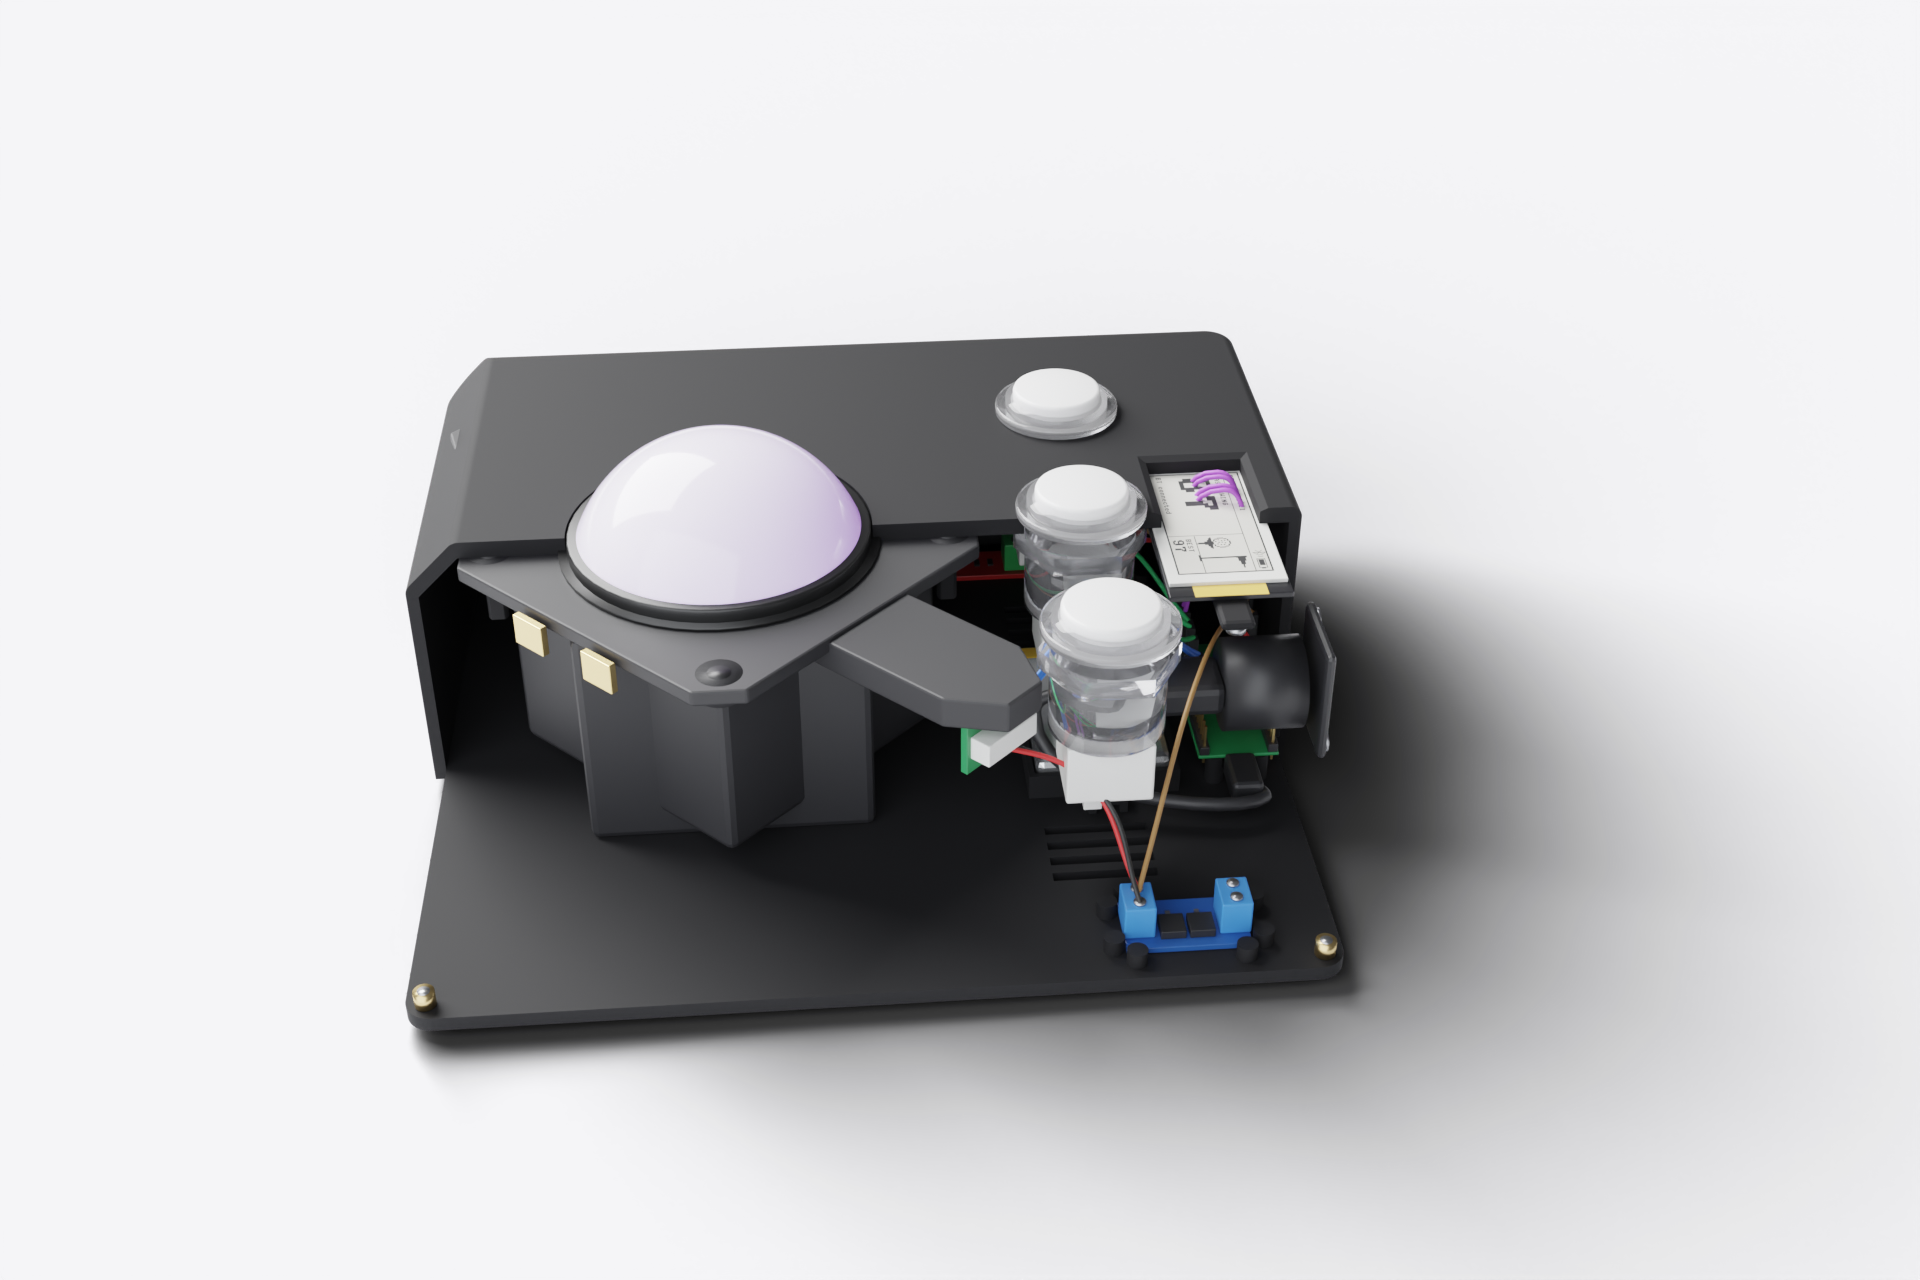
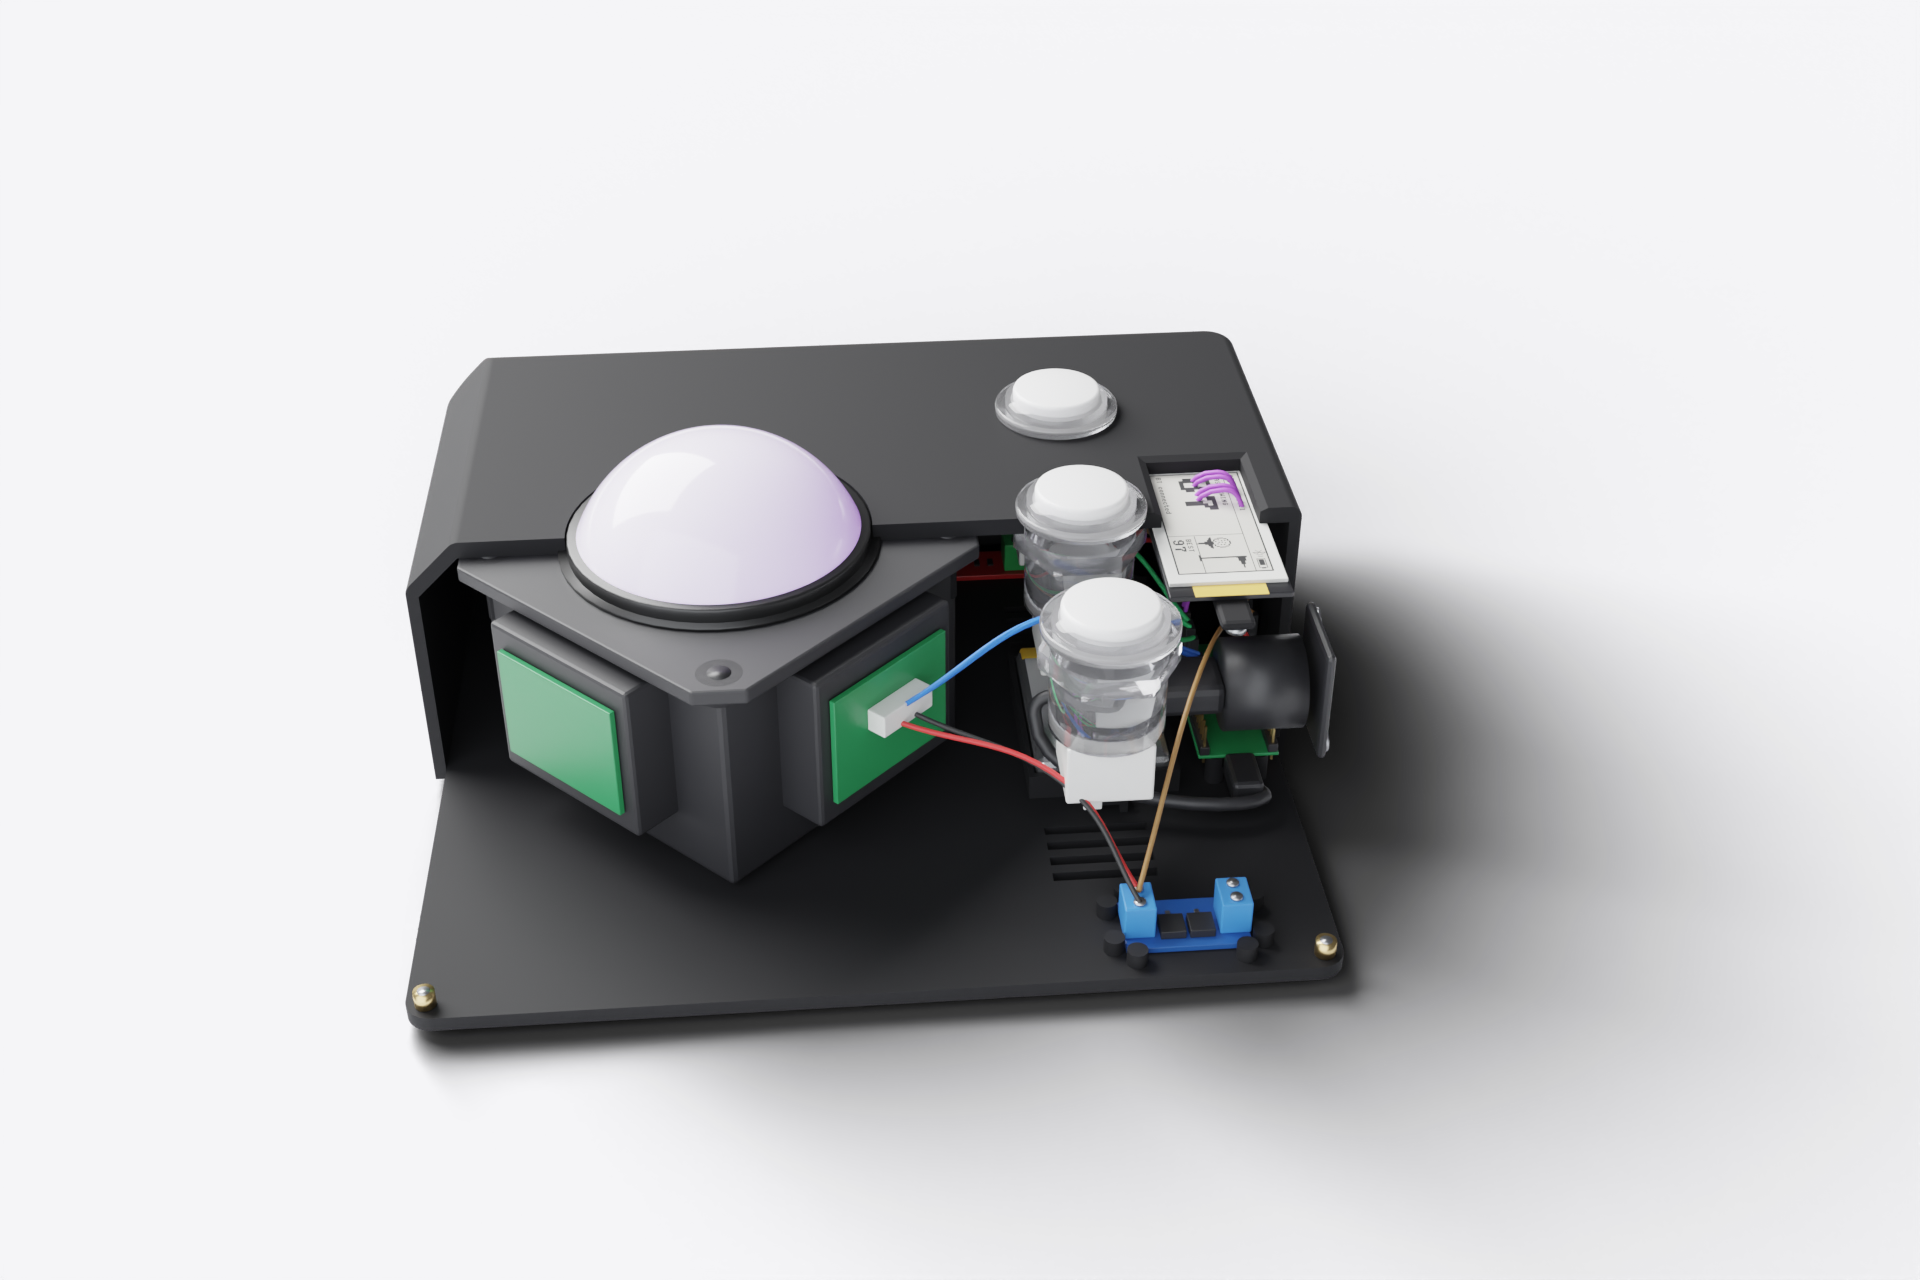
Renders: remodel the trackball from the seller photos (no side wings)
Square clipped top plate, boxy body, two short encoder housings with their
sensor boards on adjacent sides, copper LED tabs. All renders refreshed.

diff --git a/renders/components.py b/renders/components.py
@@ -260,33 +260,47 @@ def prism(points, z0, z1, m, parent=None, name="", rot_z=0.0, bevel=0.0):
     return _finish(ob, m, parent, None, bevel)
 
 def trackball(mt, g):
-    """3" illuminated trackball, modelled from photos of the real unit.
-    In its own frame: square top plate with a mounting boss at each corner
-    of an 80.5 mm square, one wing straight across (196 mm tip to tip, angled
-    tips, sensor board at one end), a lower body turned 45 deg, black ring,
-    frosted lit ball. It sits turned 45 deg in the case: holes on the case
-    axes, wing tips into the front-left / rear-right corners."""
+    """3" illuminated trackball, modelled from the seller's photos.
+    In its own frame: square top plate (corners clipped) with a mounting
+    boss at each corner of the 80.5 mm square; a boxy body below it; two
+    short encoder housings on adjacent sides (+x and -y), each with its
+    sensor board on the outer face (J1 on the +x one); copper LED-power
+    tabs on the -x side; black ring and frosted lit ball. It sits turned
+    45 deg in the case, so the mounting holes are on the case axes."""
     R = 45.0                                            # rotation into the case frame
+    c, sn = math.cos(math.radians(R)), math.sin(math.radians(R))
+    rot = lambda x, y: (x * c - y * sn, x * sn + y * c)
     top = CEIL                                          # hole surface = deck underside
     # square top plate, corners clipped, 100 x 100 x 4
     s, k = 50.0, 9.0
     plate = [(-s + k, -s), (s - k, -s), (s, -s + k), (s, s - k), (s - k, s), (-s + k, s), (-s, s - k), (-s, -s + k)]
     prism(plate, top - 4.0, top, mt["housing"], g, "Top plate", R, 0.6)
-    # mounting bosses + holes at the corners of the 80.5 square
     for hx, hy in ((40.25, 40.25), (-40.25, 40.25), (40.25, -40.25), (-40.25, -40.25)):
-        c, sn = math.cos(math.radians(R)), math.sin(math.radians(R))
-        x, y = hx * c - hy * sn, hx * sn + hy * c
+        x, y = rot(hx, hy)
         cyl(11.0, 6.0, (x, y, top - 3.0), mt["housing"], parent=g)
         cyl(5.6, 6.2, (x, y, top - 3.0), mt["chip"], parent=g)
-    # the wing: straight across, angled tips
-    L, w, tip = 98.0, 14.0, 6.0
-    wing = [(-L, -tip), (-L + 13, -w), (L - 13, -w), (L, -tip), (L, tip), (L - 13, w), (-L + 13, w), (-L, tip)]
-    prism(wing, top - 9.0, top - 1.0, mt["housing"], g, "Wing", R, 0.6)
-    # lower body: square turned 45 deg relative to the top plate (a diamond under it)
-    b = 47.0
-    body = [(0, -b * 1.25), (b * 1.25, 0), (0, b * 1.25), (-b * 1.25, 0)]
-    prism([(x * 0.86, y * 0.86) for x, y in body], PLATE_T, top - 4.0, mt["housing"], g, "Body", R, 2.0)
-    prism([(-38, -38), (38, -38), (38, 38), (-38, 38)], PLATE_T + 8, top - 4.0, mt["housing"], g, "Cage", R, 2.0)
+    # boxy body under the plate
+    zb = PLATE_T + 2.0
+    bw = 42.0
+    prism([(-bw, -bw), (bw, -bw), (bw, bw), (-bw, bw)], zb, top - 4.0, mt["housing"], g, "Body", R, 1.5)
+    # two encoder housings on adjacent sides, sensor boards on their outer faces
+    z0, z1 = top - 48.0, top - 6.0
+    for side, j1 in (("+x", True), ("-y", False)):
+        if side == "+x":
+            outline = [(bw - 1, -24), (bw + 13, -24), (bw + 13, 24), (bw - 1, 24)]
+            px, py, nx, ny = bw + 14, 0.0, 1.0, 0.0
+        else:
+            outline = [(-24, -bw - 13), (24, -bw - 13), (24, -bw + 1), (-24, -bw + 1)]
+            px, py, nx, ny = 0.0, -bw - 14, 0.0, -1.0
+        prism(outline, z0, z1, mt["housing"], g, "Encoder housing", R, 1.0)
+        x, y = rot(px, py)
+        size = (1.6, 40.0, 30.0) if side == "+x" else (40.0, 1.6, 30.0)
+        box(size, (x, y, (z0 + z1) / 2), mt["pcb_g"], 0.2, rot=(0, 0, R), parent=g,
+            name="J1 board" if j1 else "Sensor board")
+        if j1:
+            jx, jy = rot(px + nx * 3.5, py + ny * 3.5)
+            box((5.5, 17.5, 6.0), (jx, jy, (z0 + z1) / 2 + 4), mt["plastic_w"], 0.3,
+                rot=(0, 0, R), parent=g, name="J1")
     # ring + lip, frosted ball
     cyl(75.5, 4.5, (0, 0, CEIL + 2.25), mt["ring"], parent=g, name="Ring", bevel=0.6)
     cyl(80.0, 1.0, (0, 0, CEIL + 0.5), mt["ring"], parent=g)
@@ -294,21 +308,12 @@ def trackball(mt, g):
                                          location=(0, 0, BALL_Z * MM))
     ball = bpy.context.object; ball.name = "Ball"; ball.data.materials.append(mt["ball"])
     bpy.ops.object.shade_smooth(); ball.parent = g
-    # sensor board with J1 at the rear-right wing tip, blank board at the other
-    c, sn = math.cos(math.radians(R)), math.sin(math.radians(R))
-    for sgn, j1 in ((1, True), (-1, False)):
-        tx, ty = sgn * 88 * c, sgn * 88 * sn
-        pcb = box((2.0, 20.0, 14.0), (tx, ty, top - 16.0), mt["pcb_g"], 0.2, rot=(0, 0, R), parent=g,
-                  name="J1 board" if j1 else "Sensor board")
-        if j1:
-            box((6.0, 17.5, 6.0), (tx + sgn * 3.5 * c, ty + sgn * 3.5 * sn, top - 16.0), mt["plastic_w"], 0.3,
-                rot=(0, 0, R), parent=g, name="J1")
-    # copper LED-power tabs with screws on the front face of the top plate
-    fx, fy = -s * sn * 0 + 0, 0
-    for dx in (-12, 12):
-        x = dx * c - (-s - 2) * sn; y = dx * sn + (-s - 2) * c
-        box((10, 2.0, 8), (x, y, top - 6.0), mt["gold"], 0.2, rot=(0, 0, R), parent=g)
-        cyl(4.0, 1.0, (x - 1.2 * sn, y - 1.2 * c, top - 6.0), mt["steel"], rot=(90, 0, R), parent=g)
+    # copper LED-power tabs with screws on the -x face of the body
+    for dy in (-12, 12):
+        x, y = rot(-bw - 1.0, dy)
+        box((2.0, 10, 8), (x, y, top - 14.0), mt["gold"], 0.2, rot=(0, 0, R), parent=g)
+        sx, sy = rot(-bw - 2.2, dy)
+        cyl(4.0, 1.0, (sx, sy, top - 14.0), mt["steel"], rot=(0, 90, R), parent=g)
     return g
 
 def button(mt, g, x, y):
@@ -373,8 +378,8 @@ def wiring(mt, g):
         (dup(px(7), front), (BUTTONS[0][0], BUTTONS[0][1] - 3, CEIL - 45), "wire_gr"),
         (dup(px(8), front), (BUTTONS[1][0], BUTTONS[1][1] - 3, CEIL - 45), "wire_gr"),
         (dup(px(10), front), (BUTTONS[2][0], BUTTONS[2][1] - 3, CEIL - 45), "wire_gr"),
-        (dup(px(13), front), (62.2, 62.2, CEIL - 16), "wire_bl"),
-        (dup(px(14), front), (60.2, 64.2, CEIL - 16), "wire_bl"),
+        (dup(px(13), front), (44.8, 43.4, CEIL - 20), "wire_bl"),
+        (dup(px(14), front), (43.4, 44.8, CEIL - 20), "wire_bl"),
         (dup(px(3), rear), (FET[0], FET[1] - 11.5, PLATE_T + 12), "wire_br"),
         (dup(px(6), rear), (SENSOR[0], SENSOR[1] - 10.5, PLATE_T + 10), "wire_br"),
         (dup(px(18), rear), (CHG[0] + 9, CHG[1] - 7, PLATE_T + 3), "wire_r"),
@@ -383,8 +388,8 @@ def wiring(mt, g):
         mid = ((a[0] + b[0]) / 2, (a[1] + b[1]) / 2, max(a[2], b[2]) + 12)
         wire([a, mid, b], mt[col], 1.3, g)
     # trackball power from the MOSFET module
-    wire([(FET[0] - 3, FET[1] - 11.5, PLATE_T + 11), (60, 85, PLATE_T + 30), (58.0, 60.0, CEIL - 22)], mt["wire_r"], 1.3, g)
-    wire([(FET[0] + 3, FET[1] - 11.5, PLATE_T + 11), (62, 88, PLATE_T + 28), (56.0, 62.0, CEIL - 22)], mt["wire_k"], 1.3, g)
+    wire([(FET[0] - 3, FET[1] - 11.5, PLATE_T + 11), (60, 80, PLATE_T + 30), (45.5, 42.0, CEIL - 25)], mt["wire_r"], 1.3, g)
+    wire([(FET[0] + 3, FET[1] - 11.5, PLATE_T + 11), (62, 82, PLATE_T + 28), (42.0, 45.5, CEIL - 25)], mt["wire_k"], 1.3, g)
     return g
 
 # ---------- build everything ----------
